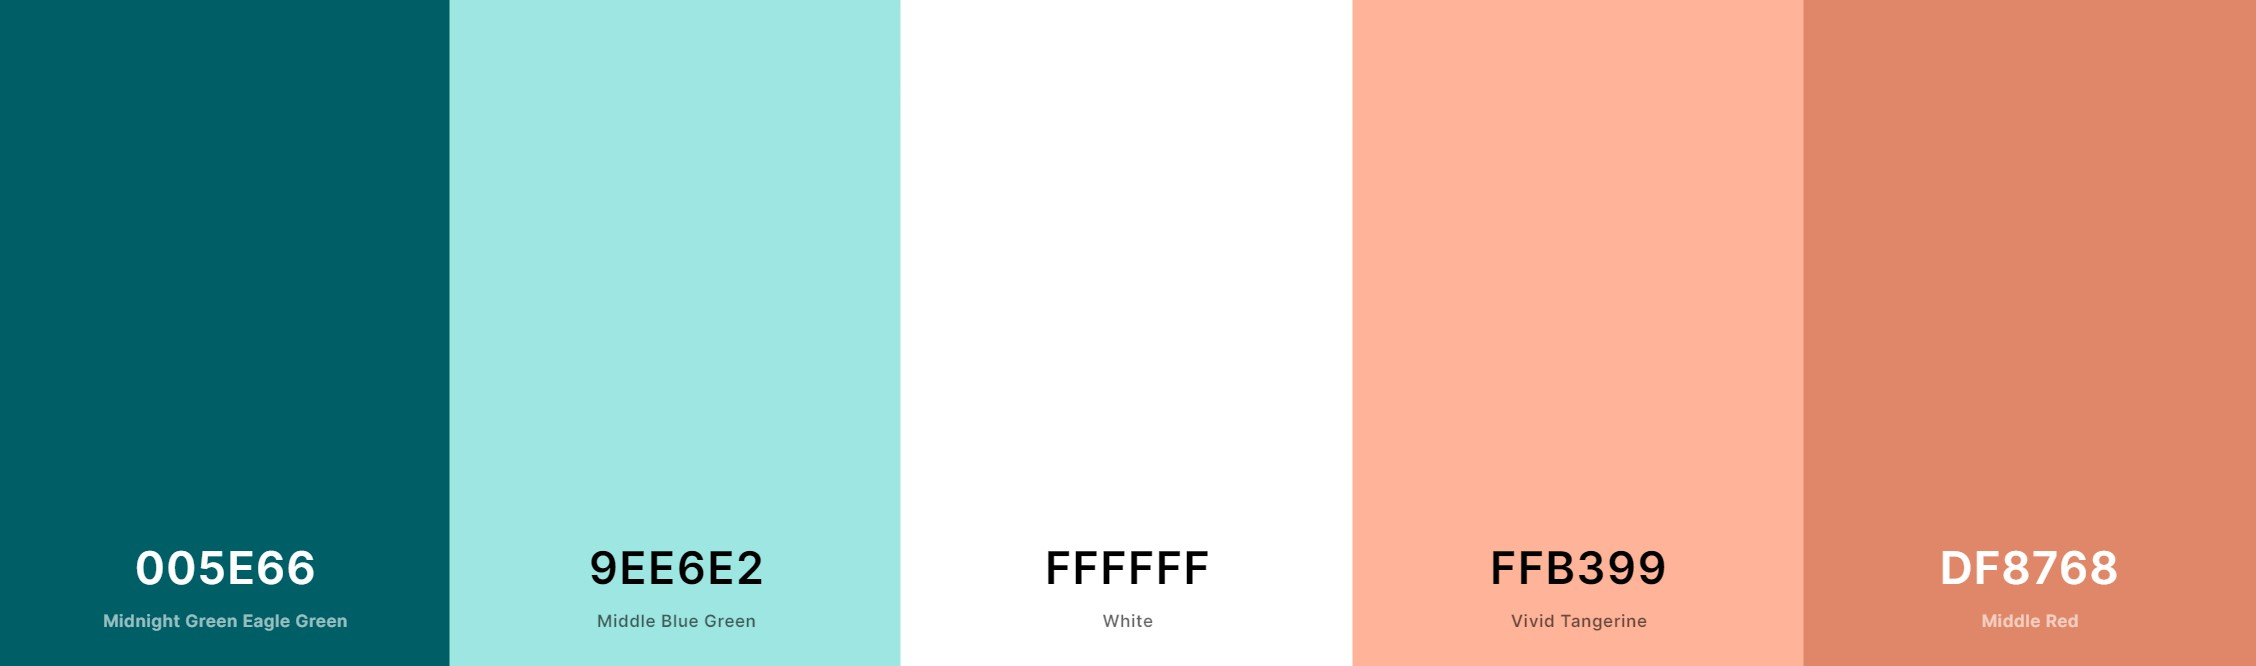
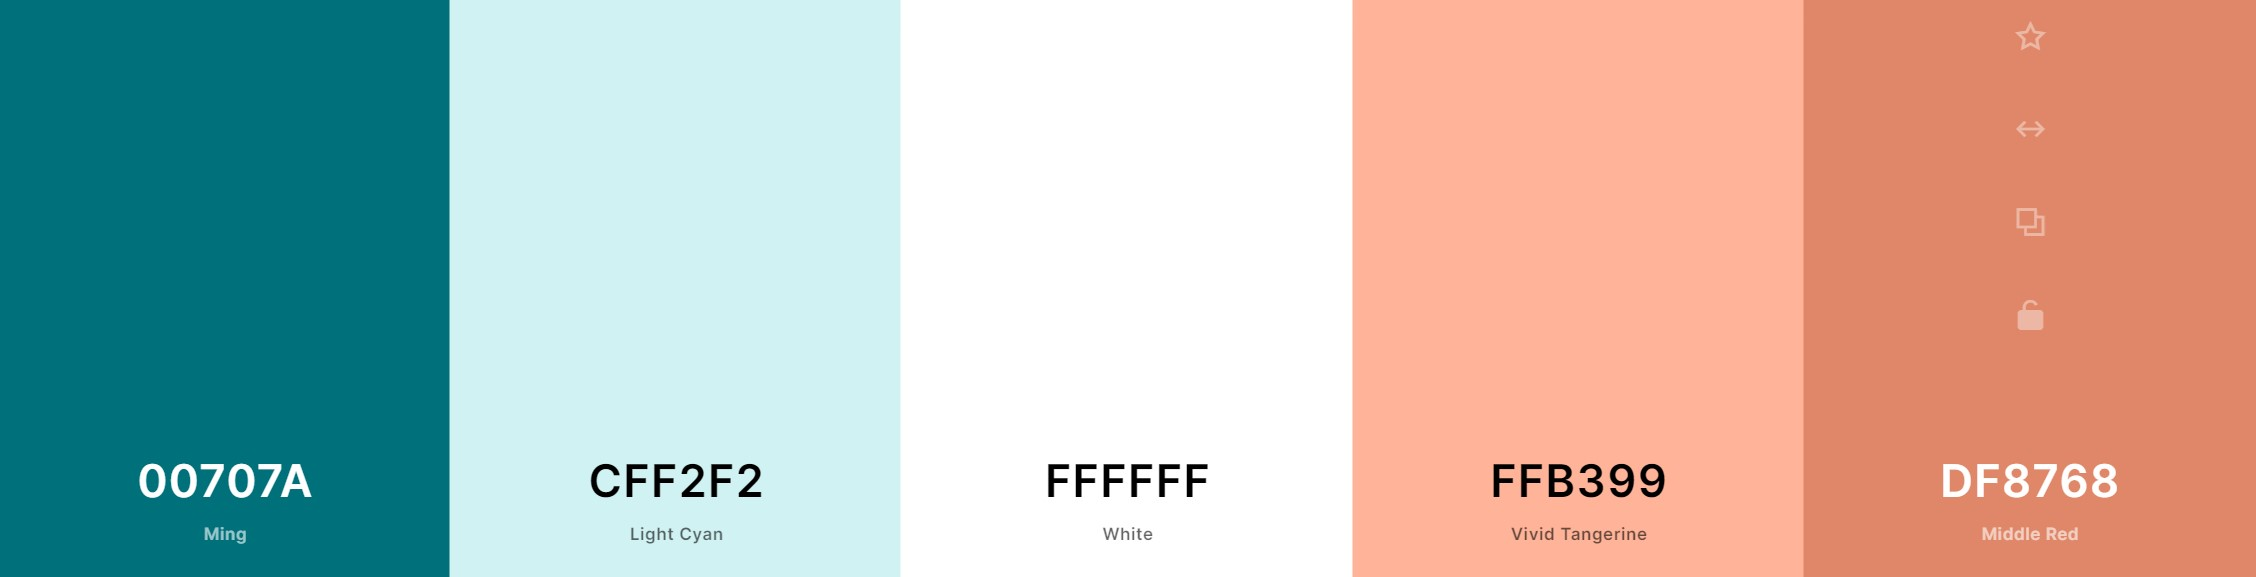
commit

diff --git a/lesson12/color-scheme.html b/lesson12/color-scheme.html
@@ -13,16 +13,12 @@
 </head>
 <body>
     <header>
-        <section>
-            <h1>Pocatello Idaho Chamber of Commerce</h1>
-            <img src="#" alt="#">
-        </section>
         <nav>
             <button onclick="toggleMenu()">&#9776;</button>
             <ul id="navigation" class="hide">
                 <li><a href="index.html">Home</a></li>
                 <li><a href="target-audience.html">Target Audience</a></li>
-                <li><a href="color-scheme.html">Color Scheme</a></li>
+                <li class="active"><a href="color-scheme.html">Color Scheme</a></li>
                 <li><a href="typography.html">Typography</a></li>
                 <li><a href="wire-frames.html">Wire Frames</a></li>
             </ul>
@@ -36,25 +32,29 @@
         </div>
         <section class="colors">
             <div>
-                <h2>Castleton Green: #23583A</h2>
-                <p>Castleton Green is used as the main color throught the site.</p>
+                <h2>Ming: #00707A</h2>
+                <p>Primary color on the site, with cool tones that work well with warm tones.</p>
             </div>
             <div>
-                <h2>Castleton Green: #23583A</h2>
-                <p>Castleton Green is used as the main color throught the site.</p>
+                <h2>Light Cyan: #CFF2F2</h2>
+                <p>Accent color, lighter version of the main cool tone.</p>
             </div>
             <div>
-                <h2>Castleton Green: #23583A</h2>
-                <p>Castleton Green is used as the main color throught the site.</p>
+                <h2>White: #FFFFFF</h2>
+                <p>Main background of the site. White was chosen for it's clean and modern apperance.</p>
             </div>
             <div>
-                <h2>Castleton Green: #23583A</h2>
-                <p>Castleton Green is used as the main color throught the site.</p>
+                <h2>Vivid Tangerine: #FFB399</h2>
+                <p>Secondary color on the site. A warm color chosen to compliment the main cool tone. </p>
+            </div>
+            <div>
+                <h2>Middle Red: #DF8768</h2>
+                <p>Accent color, darker version of the main warm tone.</p>
             </div>
         </section>    
     </main>
     <footer>
-        <p>&copy; 2021 | Meagan Roberts | Idaho | <a href="https://www.byui.edu/online">BYUI Online Learning</a></p>
+        <p>&copy; 2021 | Meagan Roberts | Idaho | <a href="ref.html">reference page</a></p>
         <div id="dateUpdated"></div>
       </footer>
       <script src="js/dateUpdated.js"></script>

diff --git a/lesson12/css/small.css b/lesson12/css/small.css
@@ -7,16 +7,15 @@ html {
 /*navigation*/
 nav {
     text-align: center;
-    background-color: black;
+    background-color: #00707A;
     font-family: 'Lato';
-    margin-top: 2rem;
     margin-bottom: 3rem;
 }
 nav button {
     background-color: transparent;
     border: none;
     font-size: 1.6rem;
-    color: whitesmoke;
+    color: white;
 }
 nav ul {
     list-style-type: none;
@@ -25,19 +24,19 @@ nav ul {
 }
 nav ul li a {
     display: block;
-    padding: .8rem 2%;
+    padding: 1.5rem 2%;
     text-decoration: none;
-    color: whitesmoke;
+    color: white;
     border-top: 1px solid rgba(0, 0, 0, 0.3);
 }
 nav ul li.active a {
-    background-color: rgba(0, 0, 0, 0.4); 
-    color: darkgrey;
+    background-color: rgba(0, 0, 0, 0.2); 
+    color: white;
 }
 
 nav ul li a:hover { 
-    background-color: darkgrey;
-    color: black;
+    background-color: rgba(0, 0, 0, 0.4);
+    color: white;
 }
 
 nav ul.hide {
@@ -46,8 +45,8 @@ nav ul.hide {
 
 footer{
     text-align: center;
-    background-color: black;
-    color: whitesmoke;
+    background-color: #00707A;
+    color: white;
 }
 footer a {
     text-decoration: none;
@@ -70,16 +69,25 @@ p, a {
 .color-image img {
     width: 100%;
 }
+.colors {
+    margin: 2rem;
+    border-top: 3px dashed #ffb399;
+}
+.colors div {
+    border-bottom: 3px dashed #ffb399;
+}
 
 /*typography*/
 .headings div {
-    border: 3px dashed black;
+    background-color: #ffb399;
+    border-radius: .8rem;
     max-width: 100%;
     margin: 1rem;
     padding: 1rem;
 }
 .heading-type {
-    border-bottom: 3px solid black;
+    border-bottom: 3px dashed #df8768;
+    padding-bottom: .5rem;
 }
 .paragraph p {
     margin: 2rem;

diff --git a/lesson12/ref.html b/lesson12/ref.html
@@ -9,7 +9,7 @@
     <link rel="stylesheet" href="css/medium.css">
     <link rel="stylesheet" href="css/large.css">
     <link rel="preconnect" href="https://fonts.gstatic.com">
-    <link rel="stylesheet" href="https://fonts.googleapis.com/css2?family=Lato&family=Libre+Baskerville&family=Roboto:wght@300&display=swap">
+    <link rel="stylesheet"  href="https://fonts.googleapis.com/css2?family=Lato&family=Libre+Baskerville&family=Roboto:wght@300&display=swap">
 </head>
 <body>
     <header>
@@ -25,10 +25,7 @@
         </nav>
     </header>  
     <main>
-        <h2>Site Plan</h2>
-            <p>The purpose of Idaho Chill is to provide information on the weather and temperature in south-east Idaho. As well as, information on locations for good hiking and mountain biking, local natural features such as springs, lakes, and other views to enjoy. This site provides a place to get this information all in one spot.</p>
-        <h2>Domain Name</h2>
-            <p>chubbuckchamber.com</p>
+        
     </main>
     <footer>
         <p>&copy; 2021 | Meagan Roberts | Idaho | <a href="ref.html">reference page</a></p>

diff --git a/lesson12/typography.html b/lesson12/typography.html
@@ -13,17 +13,13 @@
 </head>
 <body>
     <header>
-        <section>
-            <h1>Pocatello Idaho Chamber of Commerce</h1>
-            <img src="#" alt="#">
-        </section>
         <nav>
             <button onclick="toggleMenu()">&#9776;</button>
             <ul id="navigation" class="hide">
                 <li><a href="index.html">Home</a></li>
                 <li><a href="target-audience.html">Target Audience</a></li>
                 <li><a href="color-scheme.html">Color Scheme</a></li>
-                <li><a href="typography.html">Typography</a></li>
+                <li class="active"><a href="typography.html">Typography</a></li>
                 <li><a href="wire-frames.html">Wire Frames</a></li>
             </ul>
         </nav>
@@ -55,7 +51,7 @@
 
     </main>
     <footer>
-        <p>&copy; 2021 | Meagan Roberts | Idaho | <a href="https://www.byui.edu/online">BYUI Online Learning</a></p>
+        <p>&copy; 2021 | Meagan Roberts | Idaho | <a href="ref.html">reference page</a></p>
         <div id="dateUpdated"></div>
       </footer>
       <script src="js/dateUpdated.js"></script>

diff --git a/lesson12/wire-frames.html b/lesson12/wire-frames.html
@@ -13,10 +13,6 @@
 </head>
 <body>
     <header>
-        <section>
-            <h1>Pocatello Idaho Chamber of Commerce</h1>
-            <img src="#" alt="#">
-        </section>
         <nav>
             <button onclick="toggleMenu()">&#9776;</button>
             <ul id="navigation" class="hide">
@@ -24,7 +20,7 @@
                 <li><a href="target-audience.html">Target Audience</a></li>
                 <li><a href="color-scheme.html">Color Scheme</a></li>
                 <li><a href="typography.html">Typography</a></li>
-                <li><a href="wire-frames.html">Wire Frames</a></li>
+                <li class="active"><a href="wire-frames.html">Wire Frames</a></li>
             </ul>
         </nav>
     </header>  
@@ -32,7 +28,7 @@
         
     </main>
     <footer>
-        <p>&copy; 2021 | Meagan Roberts | Idaho | <a href="https://www.byui.edu/online">BYUI Online Learning</a></p>
+        <p>&copy; 2021 | Meagan Roberts | Idaho | <a href="ref.html">reference page</a></p>
         <div id="dateUpdated"></div>
       </footer>
       <script src="js/dateUpdated.js"></script>

diff --git a/lesson12/target-audience.html b/lesson12/target-audience.html
@@ -21,7 +21,7 @@
             <button onclick="toggleMenu()">&#9776;</button>
             <ul id="navigation" class="hide">
                 <li><a href="index.html">Home</a></li>
-                <li><a href="target-audience.html">Target Audience</a></li>
+                <li class="active"><a href="target-audience.html">Target Audience</a></li>
                 <li><a href="color-scheme.html">Color Scheme</a></li>
                 <li><a href="typography.html">Typography</a></li>
                 <li><a href="wire-frames.html">Wire Frames</a></li>
@@ -55,7 +55,7 @@
         </section>   
     </main>
     <footer>
-        <p>&copy; 2021 | Meagan Roberts | Idaho | <a href="https://www.byui.edu/online">BYUI Online Learning</a></p>
+        <p>&copy; 2021 | Meagan Roberts | Idaho | <a href="ref.html">reference page</a></p>
         <div id="dateUpdated"></div>
       </footer>
       <script src="js/dateUpdated.js"></script>
